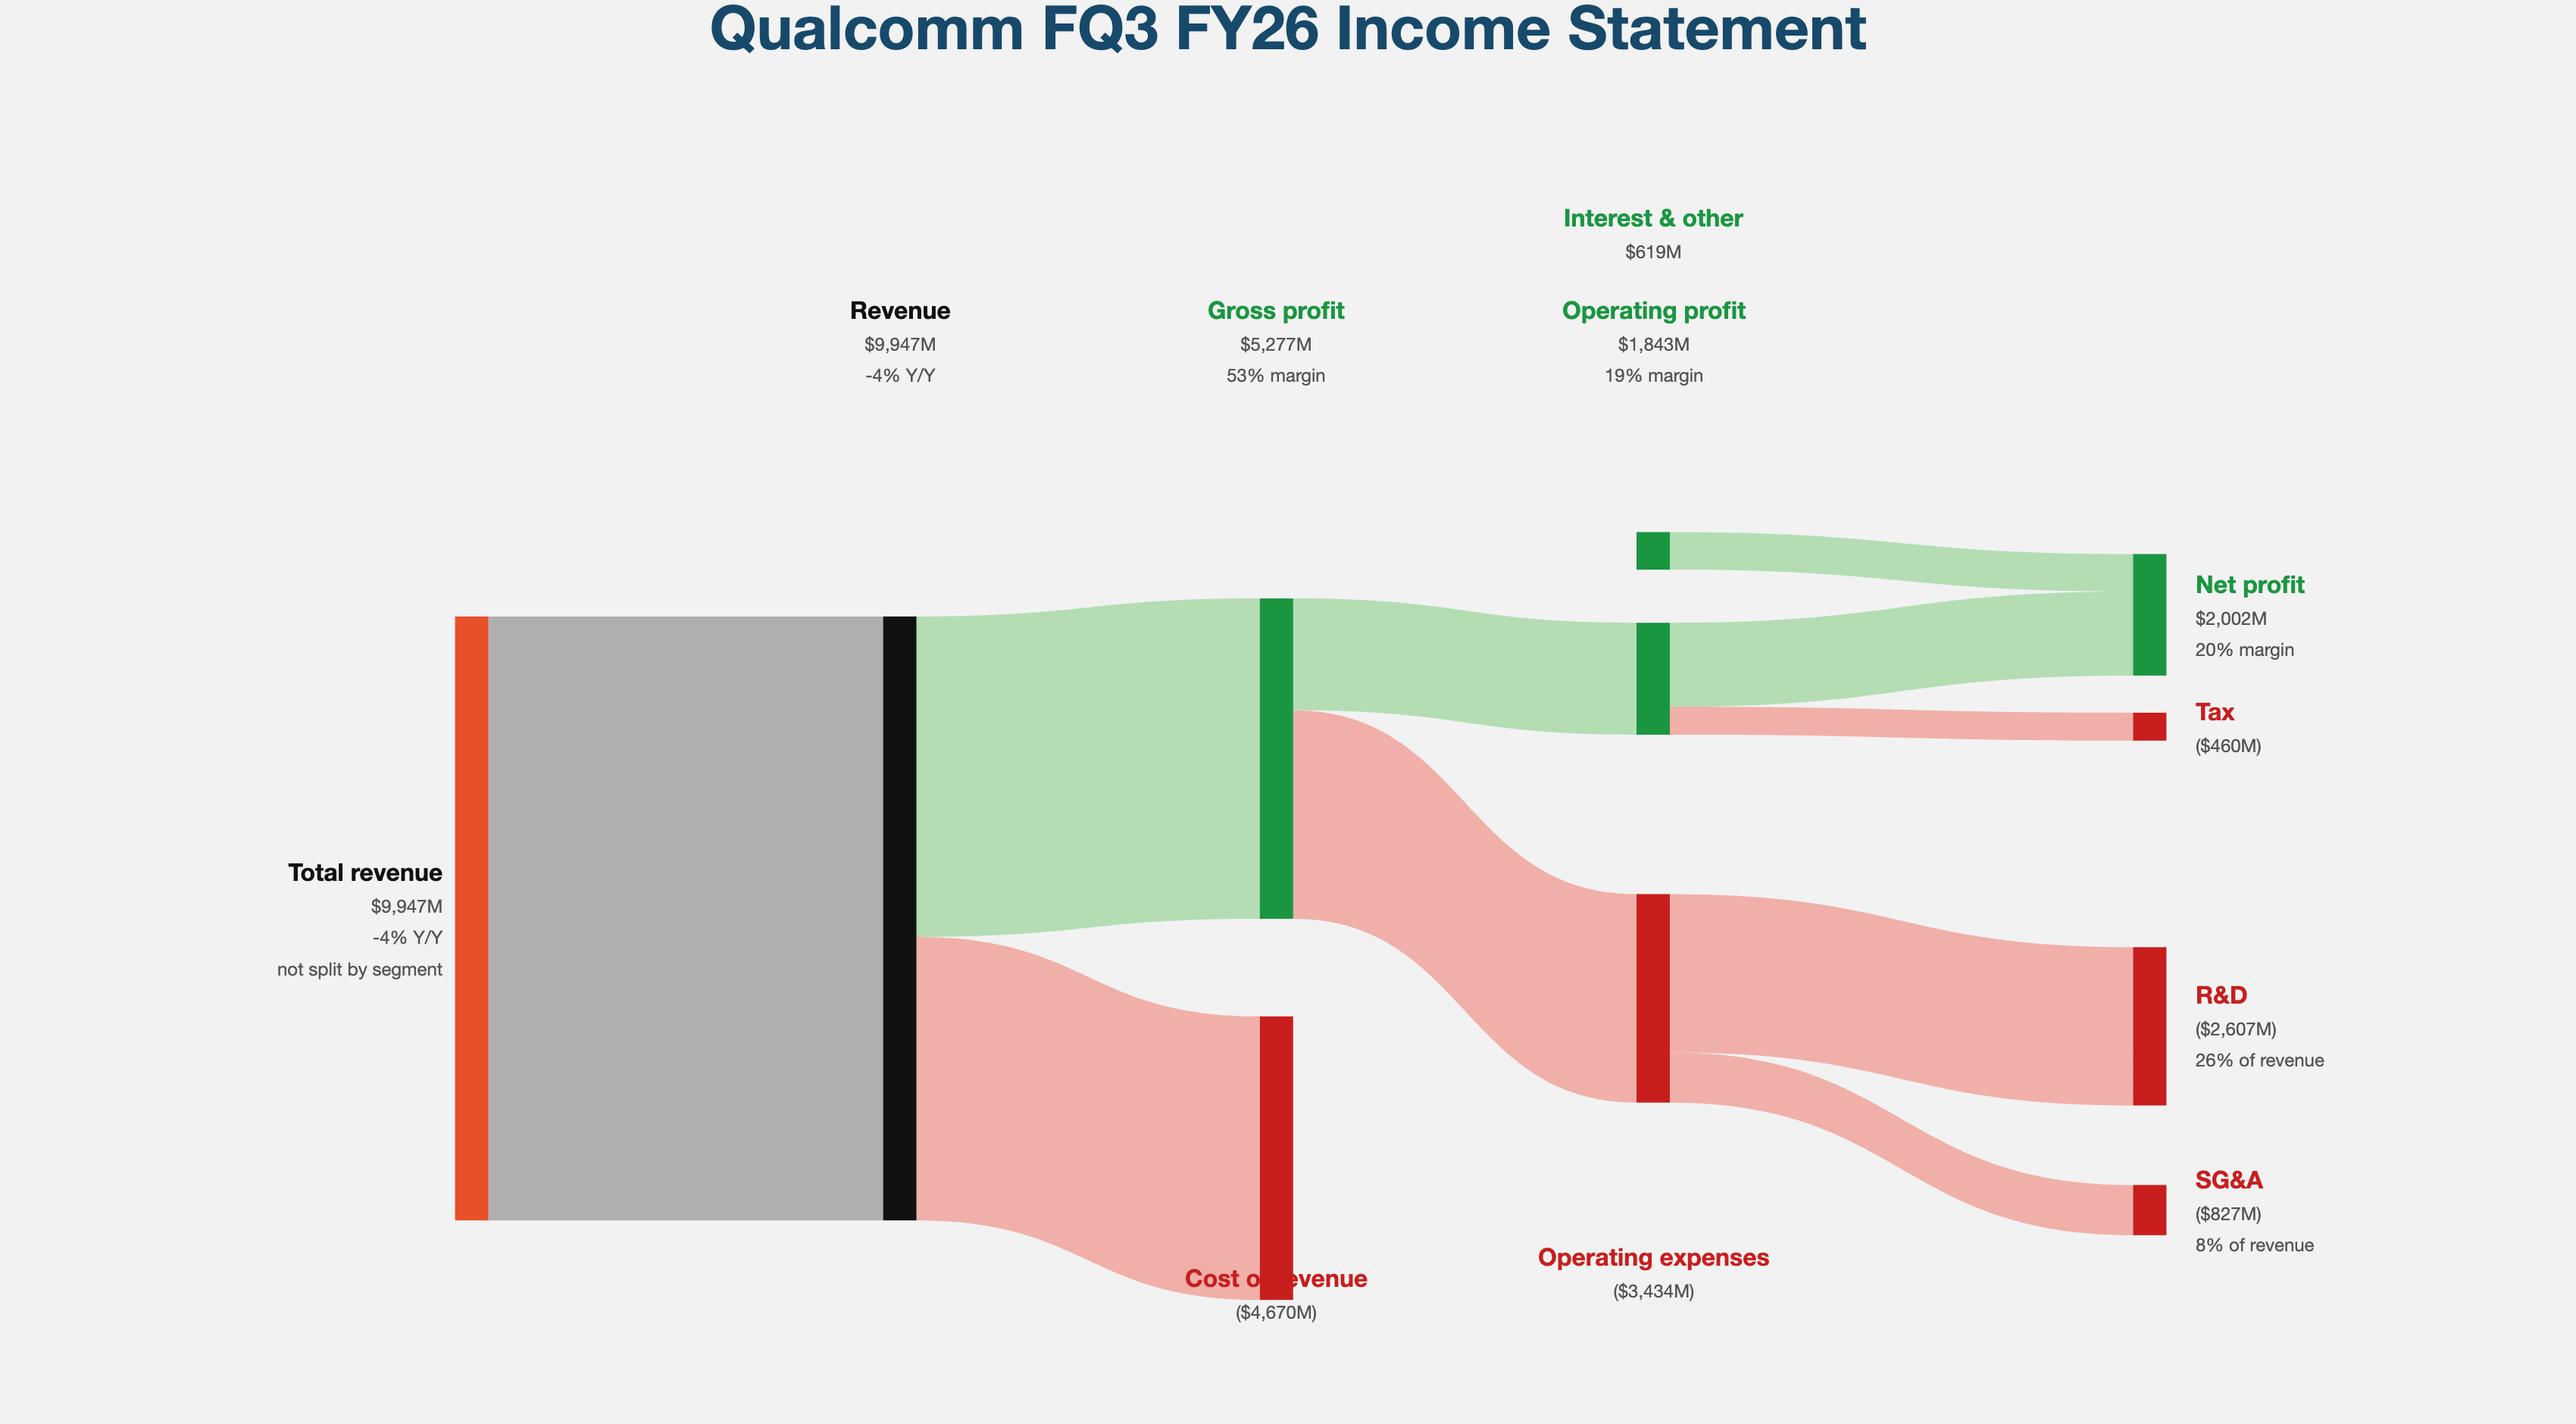
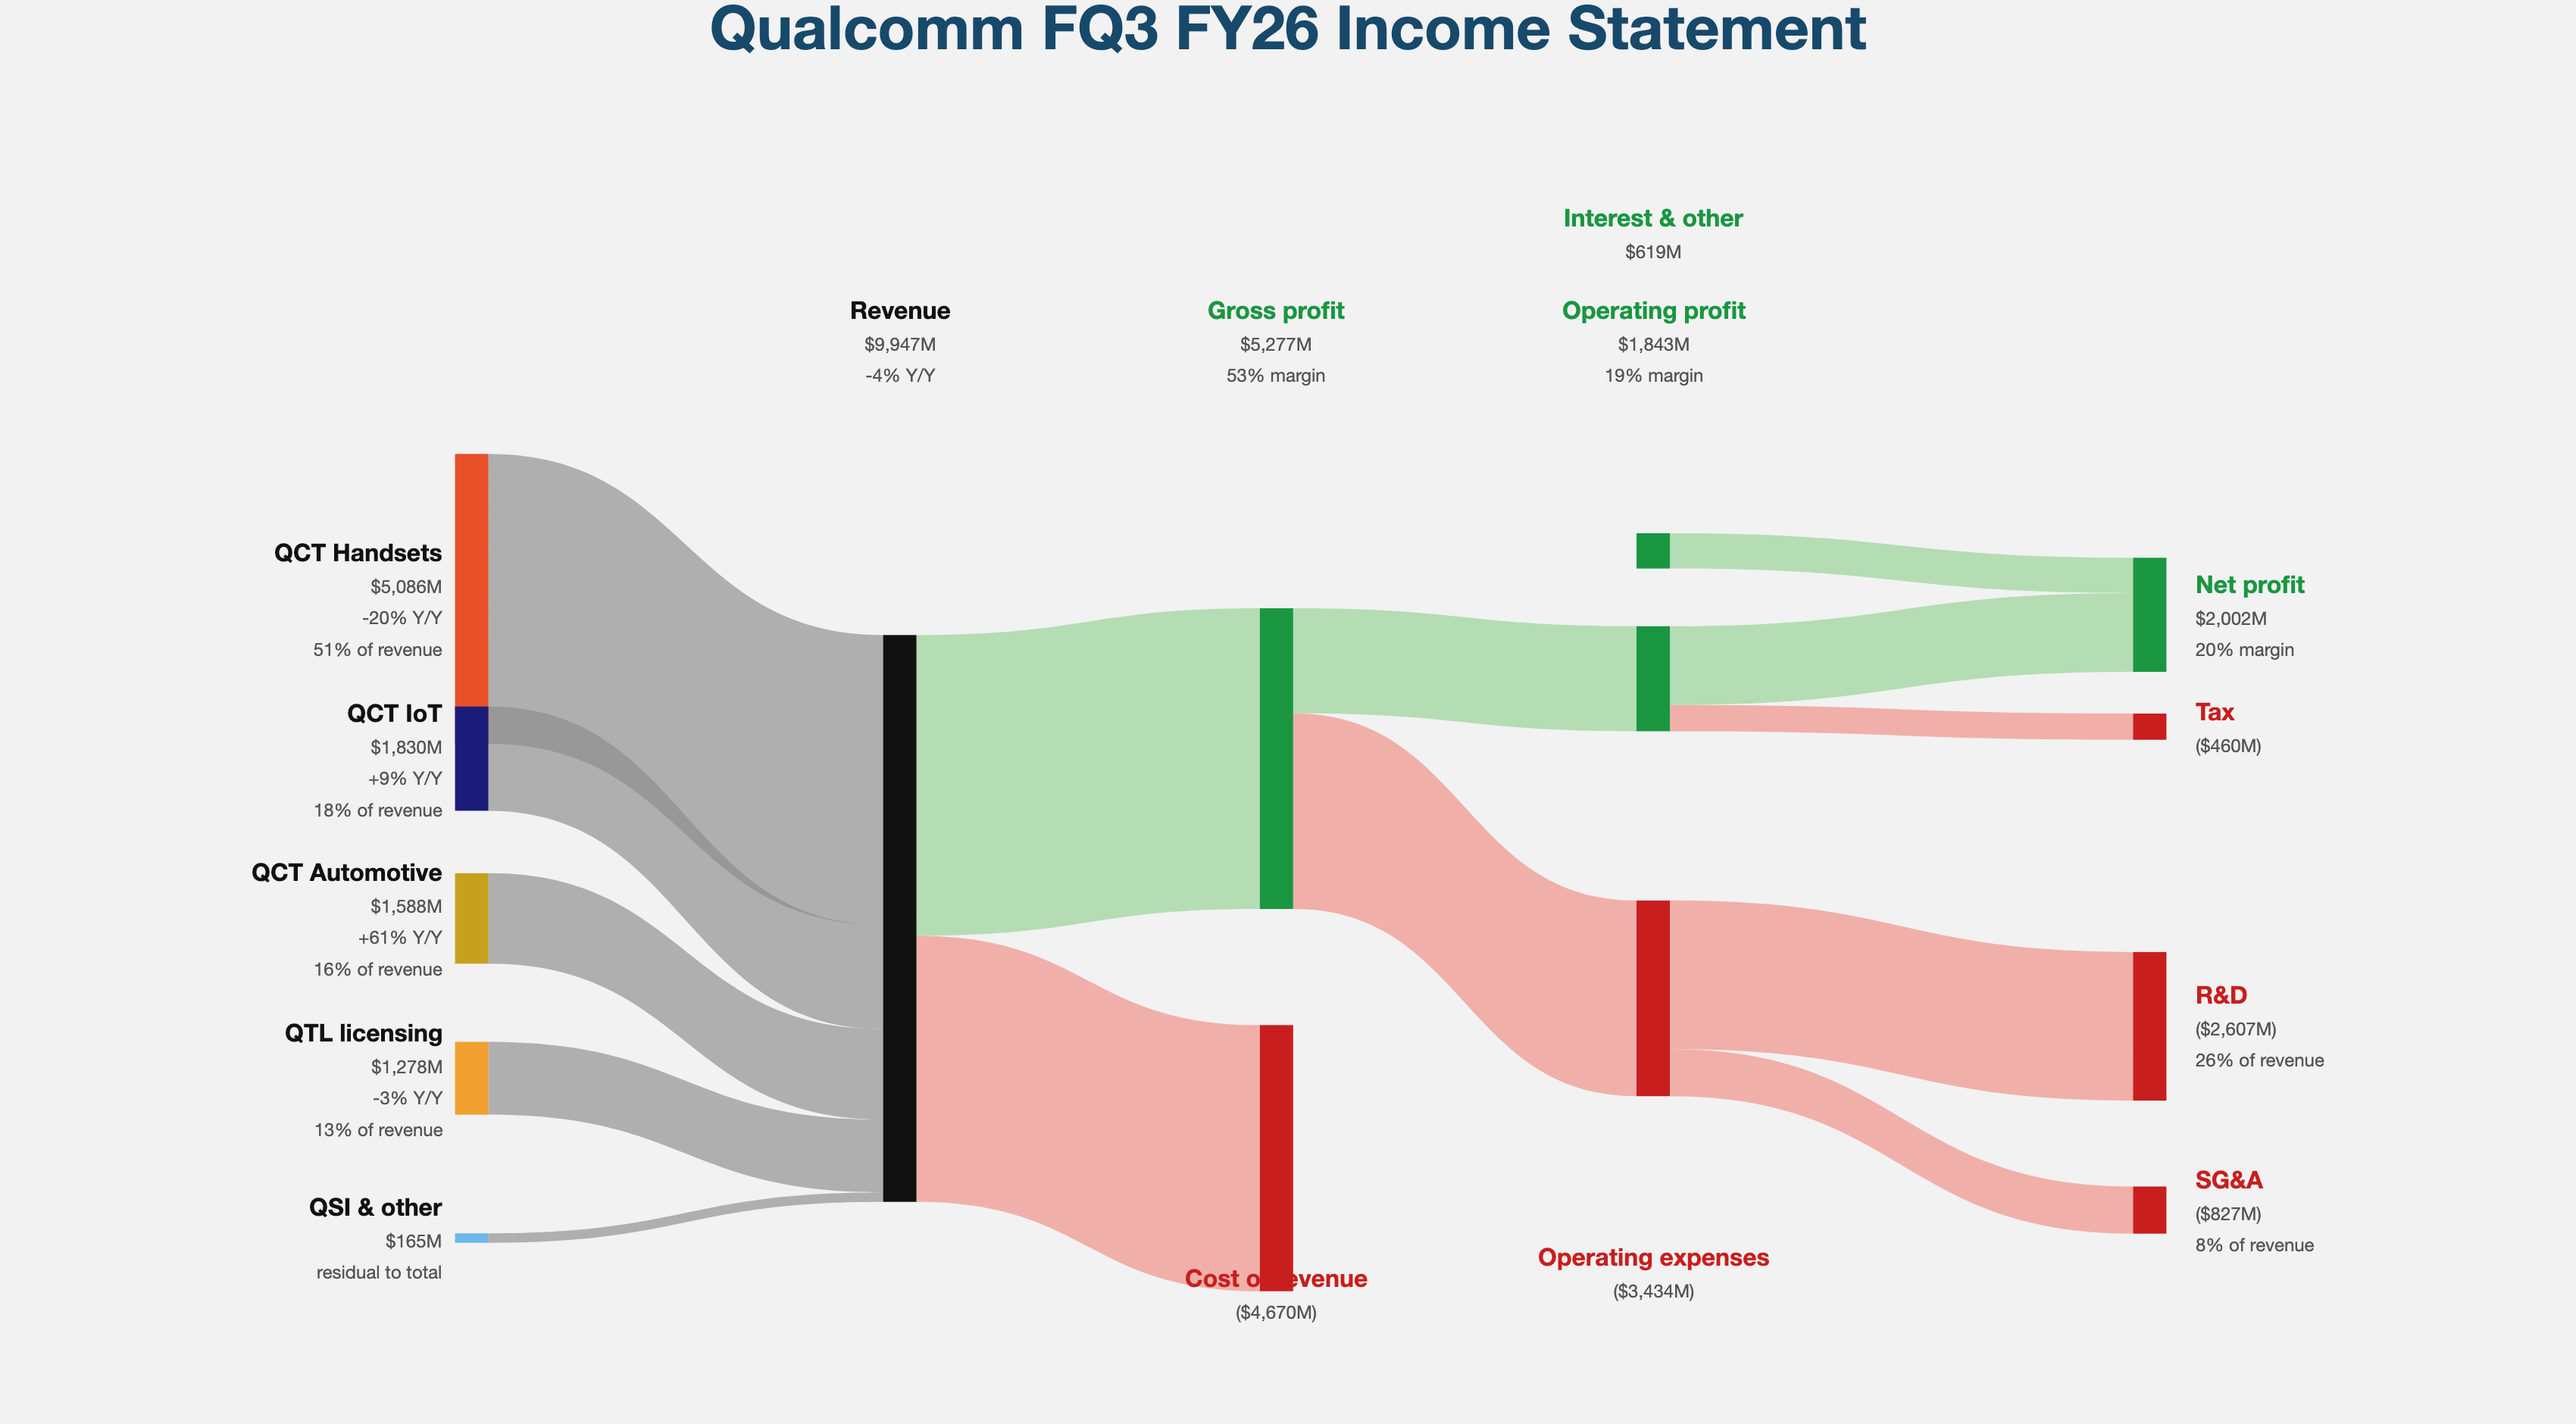
feat: break revenue out by reported segment
Nine of the twelve statements now show revenue split by segment instead
of a single bar: NVDA, MSFT, GOOG, MU, SNDK, TSM, TSLA, QCOM, INTU.
SMCI, IONQ and CRWV keep one bar -- Supermicro publishes no split, and
the other two report a single revenue line.

Segments come from each company's own release. stockanalysis.com's
revenue-by-segment page was tried first and rejected: its figures are
annual even with ?p=quarterly, and NVDA's two segments there sum to
$303B against $96.2B of quarterly revenue.

Every split was validated against the revenue total. MSFT, GOOG, QCOM
and SNDK foot exactly; TSLA is out by $44M on $28.0B and TSM by
NT$0.1B, both rounding. Two sets are derived rather than reported:
TSMC publishes platform mix only as rounded percentages, and Intuit's
Global Business Solutions is shown as the remainder so its segments
foot.

All twelve re-render with no validator warnings.

diff --git a/wiki/log.md b/wiki/log.md
@@ -99,3 +99,15 @@ Shared code moved out of the page: `assets/site.css` (all styling) and `assets/s
 **Verification**: Each page loaded and checked in the browser — heatmap 100 tiles / 96 priced / 34 chips, catalysts 12 cards with live day moves and sector labels, brief 8 sections, events 49 calendar cells, financials 12 chips with no broken images. Root redirect lands on the heatmap.
 
 **Noted**: `quotes.py` serves only the page and `/api/quotes`, so it cannot serve the new CSS, JS and watchlist files. Use a static server (`python3 -m http.server`) for local viewing.
+
+---
+
+## 2026-10-23 — Revenue broken out by segment
+
+**Source**: each company's own quarterly release. stockanalysis.com's `revenue-by-segment` page was tried first and rejected: its figures are annual even with `?p=quarterly`, and NVDA's two segments there sum to $303B against $96.2B of quarterly revenue.
+
+**What changed**: Nine of the twelve statements now show revenue split by reported segment instead of a single bar — NVDA, MSFT, GOOG, MU, SNDK, TSM, TSLA, QCOM, INTU. SMCI, IONQ and CRWV keep one bar, because no split is published (Supermicro) or only one revenue line exists (the other two).
+
+**Verification**: every split was checked against the revenue total before being used. MSFT, GOOG, QCOM and SNDK foot exactly. TSLA is out by $44M on $28.0B and TSM by NT$0.1B, both rounding and both inside the validator's relative tolerance. All twelve re-rendered with no validator warnings, and all twelve chips were clicked in the browser with no broken images.
+
+**Noted**: two segment sets are derived rather than reported. TSMC publishes platform mix only as rounded percentages, applied here to revenue. Intuit's Global Business Solutions is shown as the remainder so its two segments foot, since the release rounds it to $3.4B. NVIDIA reorganised its segments this quarter — Gaming, Professional Visualization and Automotive are gone, replaced by an Edge Computing line.

diff --git a/wiki/favorites-financials.md b/wiki/favorites-financials.md
@@ -31,7 +31,11 @@ SMH is the VanEck Semiconductor ETF. A fund holds securities; it does not sell a
 
 ## Caveats that apply to these charts
 
-**Only Micron has a real segment split.** Its business unit table comes from the 8-K. For every other name the left-hand side is a single "Total revenue" bar, because a verified segment breakdown was not pulled. These could be enriched later from each company's own release.
+**Nine of the twelve now carry a reported segment split**: NVDA, MSFT, GOOG, MU, SNDK, TSM, TSLA, QCOM and INTU. Three do not — SMCI (Supermicro's release does not split server/storage systems from subsystems), IONQ and CRWV (both report a single revenue line) — and those show one revenue bar.
+
+Each split was validated against the revenue total before use. Four footed exactly (MSFT, GOOG, QCOM, SNDK); TSLA is out by $44M on $28.0B and TSM by NT$0.1B, both rounding. Two segment values are **derived rather than reported**: TSMC publishes platform mix only as rounded percentages, which the chart applies to revenue, and Intuit's Global Business Solutions is shown as the remainder so its two segments foot.
+
+Note that stockanalysis.com's `revenue-by-segment` page is **not** usable for this — its figures are annual even under `?p=quarterly`, and NVDA's two segments there sum to $303B against $96.2B of quarterly revenue. Segments came from each company's own release instead.
 
 **Quarters are not aligned.** Fiscal calendars differ — NVDA's Q2 FY27 ended in July, MU's FQ4 FY26 in September, TSLA's Q3 in September. Comparing margins across the charts is fair; comparing "the same quarter" is not.
 
